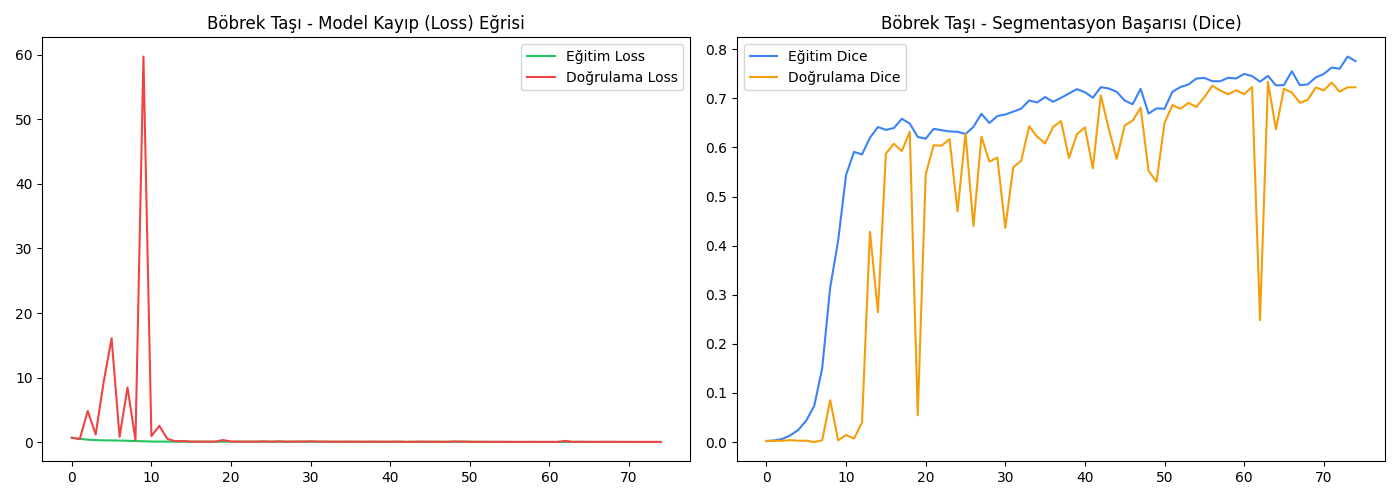
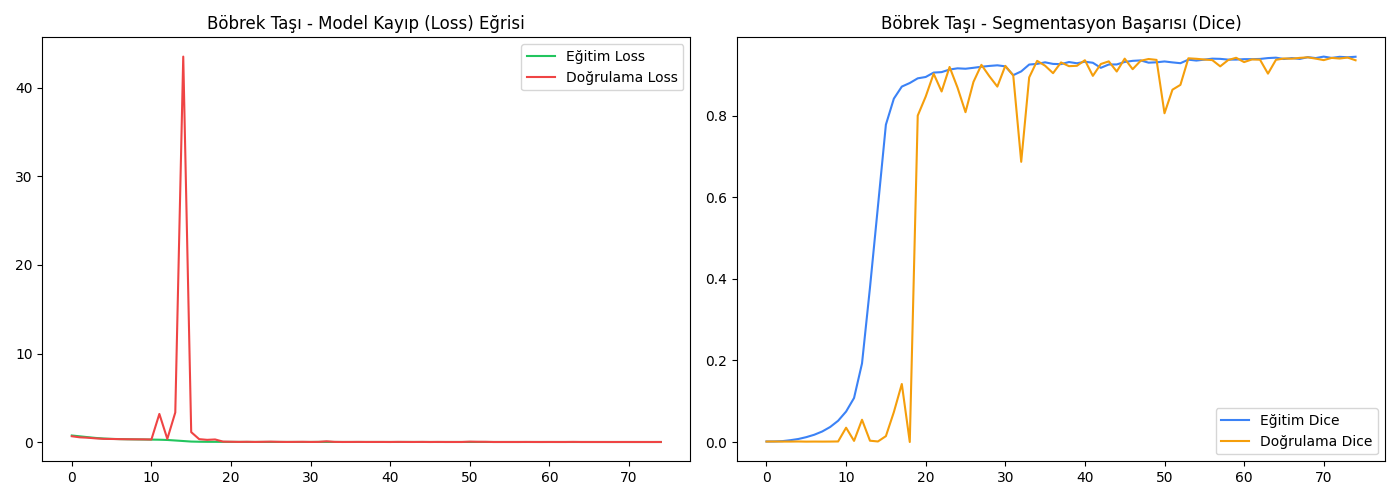
böbrek U-Net++ modeli ve çıktıları eklendi

diff --git a/.history/sunum_20260521015420.py b/.history/sunum_20260521015420.py
@@ -65,19 +65,19 @@ ORGANLAR = {
                 "X_npy"   : None,
                 "y_npy"   : None,
                 "grafik"  : os.path.join(SONUC_KLASOR, 'kidney','bobrek_U-Net_egitim_grafikleri.png'),
-                "tahmin"  : os.path.join(SONUC_KLASOR, 'kidney','bobrek_U-Net_ornek_tahminler.png'),
+                "tahmin"  : os.path.join(SONUC_KLASOR, 'kidney','bobrek_U-Net_tahmin_sonuclari.png'),
                 "txt"     : os.path.join(SONUC_KLASOR, 'kidney','bobrek_U-Net_test_metrikleri.txt'),
             },
-            "2": {
-                "ad"      : "U-NET++ Modeli",
-                "model"   : os.path.join(MODEL_KAYIT, 'bobrek_U-Net++.h5'),
-                "X_test"  : os.path.join(VERI_KLASORU,'kidney', 'bobrek_U-Net++_X.npy'),
-                "y_test"  : os.path.join(VERI_KLASORU,'kidney','bobrek_U-Net++_Y.npy'),
+            "1": {
+                "ad"      : "U-NET Modeli",
+                "model"   : os.path.join(MODEL_KAYIT, 'bobrek_U-Net.h5'),
+                "X_test"  : os.path.join(VERI_KLASORU,'kidney', 'bobrek_U-Net_X.npy'),
+                "y_test"  : os.path.join(VERI_KLASORU, 'kidney','bobrek_U-Net_Y.npy'),
                 "X_npy"   : None,
                 "y_npy"   : None,
-                "grafik"  : os.path.join(SONUC_KLASOR, 'kidney','bobrek_U-Net++_egitim_grafikleri.png'),
-                "tahmin"  : os.path.join(SONUC_KLASOR, 'kidney','bobrek_U-Net++_ornek_tahminler.png'),
-                "txt"     : os.path.join(SONUC_KLASOR, 'kidney','bobrek_U-Net++_test_metrikleri.txt'),
+                "grafik"  : os.path.join(SONUC_KLASOR, 'kidney','bobrek_U-Net_egitim_grafikleri.png'),
+                "tahmin"  : os.path.join(SONUC_KLASOR, 'kidney','bobrek_U-Net_tahmin_sonuclari.png'),
+                "txt"     : os.path.join(SONUC_KLASOR, 'kidney','bobrek_U-Net_test_metrikleri.txt'),
             },
         }
     }

diff --git a/.history/sunum_20260521015422.py b/.history/sunum_20260521015422.py
@@ -65,19 +65,19 @@ ORGANLAR = {
                 "X_npy"   : None,
                 "y_npy"   : None,
                 "grafik"  : os.path.join(SONUC_KLASOR, 'kidney','bobrek_U-Net_egitim_grafikleri.png'),
-                "tahmin"  : os.path.join(SONUC_KLASOR, 'kidney','bobrek_U-Net_ornek_tahminler.png'),
+                "tahmin"  : os.path.join(SONUC_KLASOR, 'kidney','bobrek_U-Net_tahmin_sonuclari.png'),
                 "txt"     : os.path.join(SONUC_KLASOR, 'kidney','bobrek_U-Net_test_metrikleri.txt'),
             },
             "2": {
-                "ad"      : "U-NET++ Modeli",
-                "model"   : os.path.join(MODEL_KAYIT, 'bobrek_U-Net++.h5'),
-                "X_test"  : os.path.join(VERI_KLASORU,'kidney', 'bobrek_U-Net++_X.npy'),
-                "y_test"  : os.path.join(VERI_KLASORU,'kidney','bobrek_U-Net++_Y.npy'),
+                "ad"      : "U-NET Modeli",
+                "model"   : os.path.join(MODEL_KAYIT, 'bobrek_U-Net.h5'),
+                "X_test"  : os.path.join(VERI_KLASORU,'kidney', 'bobrek_U-Net_X.npy'),
+                "y_test"  : os.path.join(VERI_KLASORU, 'kidney','bobrek_U-Net_Y.npy'),
                 "X_npy"   : None,
                 "y_npy"   : None,
-                "grafik"  : os.path.join(SONUC_KLASOR, 'kidney','bobrek_U-Net++_egitim_grafikleri.png'),
-                "tahmin"  : os.path.join(SONUC_KLASOR, 'kidney','bobrek_U-Net++_ornek_tahminler.png'),
-                "txt"     : os.path.join(SONUC_KLASOR, 'kidney','bobrek_U-Net++_test_metrikleri.txt'),
+                "grafik"  : os.path.join(SONUC_KLASOR, 'kidney','bobrek_U-Net_egitim_grafikleri.png'),
+                "tahmin"  : os.path.join(SONUC_KLASOR, 'kidney','bobrek_U-Net_tahmin_sonuclari.png'),
+                "txt"     : os.path.join(SONUC_KLASOR, 'kidney','bobrek_U-Net_test_metrikleri.txt'),
             },
         }
     }

diff --git a/.history/sunum_20260521015425.py b/.history/sunum_20260521015425.py
@@ -65,19 +65,19 @@ ORGANLAR = {
                 "X_npy"   : None,
                 "y_npy"   : None,
                 "grafik"  : os.path.join(SONUC_KLASOR, 'kidney','bobrek_U-Net_egitim_grafikleri.png'),
-                "tahmin"  : os.path.join(SONUC_KLASOR, 'kidney','bobrek_U-Net_ornek_tahminler.png'),
+                "tahmin"  : os.path.join(SONUC_KLASOR, 'kidney','bobrek_U-Net_tahmin_sonuclari.png'),
                 "txt"     : os.path.join(SONUC_KLASOR, 'kidney','bobrek_U-Net_test_metrikleri.txt'),
             },
             "2": {
                 "ad"      : "U-NET++ Modeli",
-                "model"   : os.path.join(MODEL_KAYIT, 'bobrek_U-Net++.h5'),
-                "X_test"  : os.path.join(VERI_KLASORU,'kidney', 'bobrek_U-Net++_X.npy'),
-                "y_test"  : os.path.join(VERI_KLASORU,'kidney','bobrek_U-Net++_Y.npy'),
+                "model"   : os.path.join(MODEL_KAYIT, 'bobrek_U-Net.h5'),
+                "X_test"  : os.path.join(VERI_KLASORU,'kidney', 'bobrek_U-Net_X.npy'),
+                "y_test"  : os.path.join(VERI_KLASORU, 'kidney','bobrek_U-Net_Y.npy'),
                 "X_npy"   : None,
                 "y_npy"   : None,
-                "grafik"  : os.path.join(SONUC_KLASOR, 'kidney','bobrek_U-Net++_egitim_grafikleri.png'),
-                "tahmin"  : os.path.join(SONUC_KLASOR, 'kidney','bobrek_U-Net++_ornek_tahminler.png'),
-                "txt"     : os.path.join(SONUC_KLASOR, 'kidney','bobrek_U-Net++_test_metrikleri.txt'),
+                "grafik"  : os.path.join(SONUC_KLASOR, 'kidney','bobrek_U-Net_egitim_grafikleri.png'),
+                "tahmin"  : os.path.join(SONUC_KLASOR, 'kidney','bobrek_U-Net_tahmin_sonuclari.png'),
+                "txt"     : os.path.join(SONUC_KLASOR, 'kidney','bobrek_U-Net_test_metrikleri.txt'),
             },
         }
     }

diff --git a/.history/sunum_20260521015428.py b/.history/sunum_20260521015428.py
@@ -65,19 +65,19 @@ ORGANLAR = {
                 "X_npy"   : None,
                 "y_npy"   : None,
                 "grafik"  : os.path.join(SONUC_KLASOR, 'kidney','bobrek_U-Net_egitim_grafikleri.png'),
-                "tahmin"  : os.path.join(SONUC_KLASOR, 'kidney','bobrek_U-Net_ornek_tahminler.png'),
+                "tahmin"  : os.path.join(SONUC_KLASOR, 'kidney','bobrek_U-Net_tahmin_sonuclari.png'),
                 "txt"     : os.path.join(SONUC_KLASOR, 'kidney','bobrek_U-Net_test_metrikleri.txt'),
             },
             "2": {
                 "ad"      : "U-NET++ Modeli",
                 "model"   : os.path.join(MODEL_KAYIT, 'bobrek_U-Net++.h5'),
-                "X_test"  : os.path.join(VERI_KLASORU,'kidney', 'bobrek_U-Net++_X.npy'),
-                "y_test"  : os.path.join(VERI_KLASORU,'kidney','bobrek_U-Net++_Y.npy'),
+                "X_test"  : os.path.join(VERI_KLASORU,'kidney', 'bobrek_U-Net_X.npy'),
+                "y_test"  : os.path.join(VERI_KLASORU, 'kidney','bobrek_U-Net_Y.npy'),
                 "X_npy"   : None,
                 "y_npy"   : None,
-                "grafik"  : os.path.join(SONUC_KLASOR, 'kidney','bobrek_U-Net++_egitim_grafikleri.png'),
-                "tahmin"  : os.path.join(SONUC_KLASOR, 'kidney','bobrek_U-Net++_ornek_tahminler.png'),
-                "txt"     : os.path.join(SONUC_KLASOR, 'kidney','bobrek_U-Net++_test_metrikleri.txt'),
+                "grafik"  : os.path.join(SONUC_KLASOR, 'kidney','bobrek_U-Net_egitim_grafikleri.png'),
+                "tahmin"  : os.path.join(SONUC_KLASOR, 'kidney','bobrek_U-Net_tahmin_sonuclari.png'),
+                "txt"     : os.path.join(SONUC_KLASOR, 'kidney','bobrek_U-Net_test_metrikleri.txt'),
             },
         }
     }

diff --git a/.history/sunum_20260521015433.py b/.history/sunum_20260521015433.py
@@ -65,19 +65,19 @@ ORGANLAR = {
                 "X_npy"   : None,
                 "y_npy"   : None,
                 "grafik"  : os.path.join(SONUC_KLASOR, 'kidney','bobrek_U-Net_egitim_grafikleri.png'),
-                "tahmin"  : os.path.join(SONUC_KLASOR, 'kidney','bobrek_U-Net_ornek_tahminler.png'),
+                "tahmin"  : os.path.join(SONUC_KLASOR, 'kidney','bobrek_U-Net_tahmin_sonuclari.png'),
                 "txt"     : os.path.join(SONUC_KLASOR, 'kidney','bobrek_U-Net_test_metrikleri.txt'),
             },
             "2": {
                 "ad"      : "U-NET++ Modeli",
                 "model"   : os.path.join(MODEL_KAYIT, 'bobrek_U-Net++.h5'),
                 "X_test"  : os.path.join(VERI_KLASORU,'kidney', 'bobrek_U-Net++_X.npy'),
-                "y_test"  : os.path.join(VERI_KLASORU,'kidney','bobrek_U-Net++_Y.npy'),
+                "y_test"  : os.path.join(VERI_KLASORU, 'kidney','bobrek_U-Net++_Y.npy'),
                 "X_npy"   : None,
                 "y_npy"   : None,
-                "grafik"  : os.path.join(SONUC_KLASOR, 'kidney','bobrek_U-Net++_egitim_grafikleri.png'),
-                "tahmin"  : os.path.join(SONUC_KLASOR, 'kidney','bobrek_U-Net++_ornek_tahminler.png'),
-                "txt"     : os.path.join(SONUC_KLASOR, 'kidney','bobrek_U-Net++_test_metrikleri.txt'),
+                "grafik"  : os.path.join(SONUC_KLASOR, 'kidney','bobrek_U-Net_egitim_grafikleri.png'),
+                "tahmin"  : os.path.join(SONUC_KLASOR, 'kidney','bobrek_U-Net_tahmin_sonuclari.png'),
+                "txt"     : os.path.join(SONUC_KLASOR, 'kidney','bobrek_U-Net_test_metrikleri.txt'),
             },
         }
     }

diff --git a/.history/sunum_20260521015431.py b/.history/sunum_20260521015431.py
@@ -65,19 +65,19 @@ ORGANLAR = {
                 "X_npy"   : None,
                 "y_npy"   : None,
                 "grafik"  : os.path.join(SONUC_KLASOR, 'kidney','bobrek_U-Net_egitim_grafikleri.png'),
-                "tahmin"  : os.path.join(SONUC_KLASOR, 'kidney','bobrek_U-Net_ornek_tahminler.png'),
+                "tahmin"  : os.path.join(SONUC_KLASOR, 'kidney','bobrek_U-Net_tahmin_sonuclari.png'),
                 "txt"     : os.path.join(SONUC_KLASOR, 'kidney','bobrek_U-Net_test_metrikleri.txt'),
             },
             "2": {
                 "ad"      : "U-NET++ Modeli",
                 "model"   : os.path.join(MODEL_KAYIT, 'bobrek_U-Net++.h5'),
                 "X_test"  : os.path.join(VERI_KLASORU,'kidney', 'bobrek_U-Net++_X.npy'),
-                "y_test"  : os.path.join(VERI_KLASORU,'kidney','bobrek_U-Net++_Y.npy'),
+                "y_test"  : os.path.join(VERI_KLASORU, 'kidney','bobrek_U-Net_Y.npy'),
                 "X_npy"   : None,
                 "y_npy"   : None,
-                "grafik"  : os.path.join(SONUC_KLASOR, 'kidney','bobrek_U-Net++_egitim_grafikleri.png'),
-                "tahmin"  : os.path.join(SONUC_KLASOR, 'kidney','bobrek_U-Net++_ornek_tahminler.png'),
-                "txt"     : os.path.join(SONUC_KLASOR, 'kidney','bobrek_U-Net++_test_metrikleri.txt'),
+                "grafik"  : os.path.join(SONUC_KLASOR, 'kidney','bobrek_U-Net_egitim_grafikleri.png'),
+                "tahmin"  : os.path.join(SONUC_KLASOR, 'kidney','bobrek_U-Net_tahmin_sonuclari.png'),
+                "txt"     : os.path.join(SONUC_KLASOR, 'kidney','bobrek_U-Net_test_metrikleri.txt'),
             },
         }
     }

diff --git a/.history/sunum_20260521015440.py b/.history/sunum_20260521015440.py
@@ -65,19 +65,19 @@ ORGANLAR = {
                 "X_npy"   : None,
                 "y_npy"   : None,
                 "grafik"  : os.path.join(SONUC_KLASOR, 'kidney','bobrek_U-Net_egitim_grafikleri.png'),
-                "tahmin"  : os.path.join(SONUC_KLASOR, 'kidney','bobrek_U-Net_ornek_tahminler.png'),
+                "tahmin"  : os.path.join(SONUC_KLASOR, 'kidney','bobrek_U-Net_tahmin_sonuclari.png'),
                 "txt"     : os.path.join(SONUC_KLASOR, 'kidney','bobrek_U-Net_test_metrikleri.txt'),
             },
             "2": {
                 "ad"      : "U-NET++ Modeli",
                 "model"   : os.path.join(MODEL_KAYIT, 'bobrek_U-Net++.h5'),
                 "X_test"  : os.path.join(VERI_KLASORU,'kidney', 'bobrek_U-Net++_X.npy'),
-                "y_test"  : os.path.join(VERI_KLASORU,'kidney','bobrek_U-Net++_Y.npy'),
+                "y_test"  : os.path.join(VERI_KLASORU, 'kidney','bobrek_U-Net++_Y.npy'),
                 "X_npy"   : None,
                 "y_npy"   : None,
                 "grafik"  : os.path.join(SONUC_KLASOR, 'kidney','bobrek_U-Net++_egitim_grafikleri.png'),
-                "tahmin"  : os.path.join(SONUC_KLASOR, 'kidney','bobrek_U-Net++_ornek_tahminler.png'),
-                "txt"     : os.path.join(SONUC_KLASOR, 'kidney','bobrek_U-Net++_test_metrikleri.txt'),
+                "tahmin"  : os.path.join(SONUC_KLASOR, 'kidney','bobrek_U-Net++_tahmin_sonuclari.png'),
+                "txt"     : os.path.join(SONUC_KLASOR, 'kidney','bobrek_U-Net_test_metrikleri.txt'),
             },
         }
     }

diff --git a/.history/sunum_20260521015438.py b/.history/sunum_20260521015438.py
@@ -65,19 +65,19 @@ ORGANLAR = {
                 "X_npy"   : None,
                 "y_npy"   : None,
                 "grafik"  : os.path.join(SONUC_KLASOR, 'kidney','bobrek_U-Net_egitim_grafikleri.png'),
-                "tahmin"  : os.path.join(SONUC_KLASOR, 'kidney','bobrek_U-Net_ornek_tahminler.png'),
+                "tahmin"  : os.path.join(SONUC_KLASOR, 'kidney','bobrek_U-Net_tahmin_sonuclari.png'),
                 "txt"     : os.path.join(SONUC_KLASOR, 'kidney','bobrek_U-Net_test_metrikleri.txt'),
             },
             "2": {
                 "ad"      : "U-NET++ Modeli",
                 "model"   : os.path.join(MODEL_KAYIT, 'bobrek_U-Net++.h5'),
                 "X_test"  : os.path.join(VERI_KLASORU,'kidney', 'bobrek_U-Net++_X.npy'),
-                "y_test"  : os.path.join(VERI_KLASORU,'kidney','bobrek_U-Net++_Y.npy'),
+                "y_test"  : os.path.join(VERI_KLASORU, 'kidney','bobrek_U-Net++_Y.npy'),
                 "X_npy"   : None,
                 "y_npy"   : None,
                 "grafik"  : os.path.join(SONUC_KLASOR, 'kidney','bobrek_U-Net++_egitim_grafikleri.png'),
-                "tahmin"  : os.path.join(SONUC_KLASOR, 'kidney','bobrek_U-Net++_ornek_tahminler.png'),
-                "txt"     : os.path.join(SONUC_KLASOR, 'kidney','bobrek_U-Net++_test_metrikleri.txt'),
+                "tahmin"  : os.path.join(SONUC_KLASOR, 'kidney','bobrek_U-Net_tahmin_sonuclari.png'),
+                "txt"     : os.path.join(SONUC_KLASOR, 'kidney','bobrek_U-Net_test_metrikleri.txt'),
             },
         }
     }

diff --git a/.history/sunum_20260521015443.py b/.history/sunum_20260521015443.py
@@ -65,18 +65,18 @@ ORGANLAR = {
                 "X_npy"   : None,
                 "y_npy"   : None,
                 "grafik"  : os.path.join(SONUC_KLASOR, 'kidney','bobrek_U-Net_egitim_grafikleri.png'),
-                "tahmin"  : os.path.join(SONUC_KLASOR, 'kidney','bobrek_U-Net_ornek_tahminler.png'),
+                "tahmin"  : os.path.join(SONUC_KLASOR, 'kidney','bobrek_U-Net_tahmin_sonuclari.png'),
                 "txt"     : os.path.join(SONUC_KLASOR, 'kidney','bobrek_U-Net_test_metrikleri.txt'),
             },
             "2": {
                 "ad"      : "U-NET++ Modeli",
                 "model"   : os.path.join(MODEL_KAYIT, 'bobrek_U-Net++.h5'),
                 "X_test"  : os.path.join(VERI_KLASORU,'kidney', 'bobrek_U-Net++_X.npy'),
-                "y_test"  : os.path.join(VERI_KLASORU,'kidney','bobrek_U-Net++_Y.npy'),
+                "y_test"  : os.path.join(VERI_KLASORU, 'kidney','bobrek_U-Net++_Y.npy'),
                 "X_npy"   : None,
                 "y_npy"   : None,
                 "grafik"  : os.path.join(SONUC_KLASOR, 'kidney','bobrek_U-Net++_egitim_grafikleri.png'),
-                "tahmin"  : os.path.join(SONUC_KLASOR, 'kidney','bobrek_U-Net++_ornek_tahminler.png'),
+                "tahmin"  : os.path.join(SONUC_KLASOR, 'kidney','bobrek_U-Net++_tahmin_sonuclari.png'),
                 "txt"     : os.path.join(SONUC_KLASOR, 'kidney','bobrek_U-Net++_test_metrikleri.txt'),
             },
         }

diff --git a/.history/sunum_20260521013044.py b/.history/sunum_20260521013044.py
@@ -65,19 +65,8 @@ ORGANLAR = {
                 "X_npy"   : None,
                 "y_npy"   : None,
                 "grafik"  : os.path.join(SONUC_KLASOR, 'kidney','bobrek_U-Net_egitim_grafikleri.png'),
-                "tahmin"  : os.path.join(SONUC_KLASOR, 'kidney','bobrek_U-Net_ornek_tahminler.png'),
+                "tahmin"  : os.path.join(SONUC_KLASOR, 'kidney','bobrek_U-Net_tahmin_sonuclari.png'),
                 "txt"     : os.path.join(SONUC_KLASOR, 'kidney','bobrek_U-Net_test_metrikleri.txt'),
-            },
-            "2": {
-                "ad"      : "U-NET++ Modeli",
-                "model"   : os.path.join(MODEL_KAYIT, 'bobrek_U-Net++.h5'),
-                "X_test"  : os.path.join(VERI_KLASORU,'kidney', 'bobrek_U-Net++_X.npy'),
-                "y_test"  : os.path.join(VERI_KLASORU,'kidney','bobrek_U-Net++_Y.npy'),
-                "X_npy"   : None,
-                "y_npy"   : None,
-                "grafik"  : os.path.join(SONUC_KLASOR, 'kidney','bobrek_U-Net++_egitim_grafikleri.png'),
-                "tahmin"  : os.path.join(SONUC_KLASOR, 'kidney','bobrek_U-Net++_ornek_tahminler.png'),
-                "txt"     : os.path.join(SONUC_KLASOR, 'kidney','bobrek_U-Net++_test_metrikleri.txt'),
             },
         }
     }

diff --git a/.history/sunum_20260521020416.py b/.history/sunum_20260521020416.py
@@ -101,14 +101,18 @@ def karsılastir_menu(organ_cfg, organ_ad):
 def model_menu(organ_cfg, organ_ad):
     yuklenen = {}
     for key, cfg in organ_cfg["modeller"].items():
+        # 🎯 HATA AYIKLAMA (DEBUG) SATIRLARI EKLENDİ
+        print(f"\n🔍 ARANAN MODEL: {cfg['model']}")
+        print(f"🔍 ARANAN X_TEST: {cfg['X_test']}")
+        
         if not os.path.exists(cfg["model"]):
-            print(f"  {cfg['ad']} model dosyasi eksik, atlaniyor.")
+            print(f" ❌ {cfg['ad']} model dosyasi eksik, atlaniyor.")
             continue
         X_test, y_test = veri_yukle(cfg)
         if X_test is None:
-            print(f"  {cfg['ad']} veri dosyasi eksik, atlaniyor.")
+            print(f" ❌ {cfg['ad']} veri dosyasi eksik, atlaniyor.")
             continue
-        print(f"  {cfg['ad']} yukleniyor...")
+        print(f" ✅ {cfg['ad']} yukleniyor...")
         yuklenen[key] = {
             "cfg": cfg, "model": model_yukle(cfg["model"]),
             "X_test": X_test, "y_test": y_test,

diff --git a/.history/sunum_20260521020457.py b/.history/sunum_20260521020457.py
@@ -101,14 +101,17 @@ def karsılastir_menu(organ_cfg, organ_ad):
 def model_menu(organ_cfg, organ_ad):
     yuklenen = {}
     for key, cfg in organ_cfg["modeller"].items():
+        # 🎯 HATA AYIKLAMA (DEBUG) SATIRLARI EKLENDİ
+        print(f"\n🔍 ARANAN MODEL: {cfg['model']}")
+        print(f"🔍 ARANAN X_TEST: {cfg['X_test']}")
+        
         if not os.path.exists(cfg["model"]):
-            print(f"  {cfg['ad']} model dosyasi eksik, atlaniyor.")
+            print(f" ❌ {cfg['ad']} model dosyasi eksik, atlaniyor.")
             continue
         X_test, y_test = veri_yukle(cfg)
         if X_test is None:
-            print(f"  {cfg['ad']} veri dosyasi eksik, atlaniyor.")
-            continue
-        print(f"  {cfg['ad']} yukleniyor...")
+            print(f" ❌ {cfg['ad']} veri dosyasi eksik, atlaniyor.")
+        print(f" ✅ {cfg['ad']} yukleniyor...")
         yuklenen[key] = {
             "cfg": cfg, "model": model_yukle(cfg["model"]),
             "X_test": X_test, "y_test": y_test,
